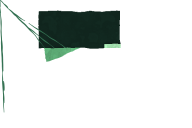
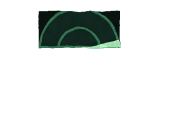
fix(computer): keep the ink radar's sweep inside its monitor
The rings used an arc the pen cannot follow, so they ran as stray lines
across the picture; the wedge dipped under the screen's floor. Redrawn
after the pixel frames, clipped to the screen.

diff --git a/tools/anime-art/subjects/machines.js b/tools/anime-art/subjects/machines.js
@@ -480,12 +480,25 @@ const computerLights = (f) => (a) => {
   a.flat(rr(29.8, 13, 1, .6, .1), f ? '#54ba74' : '#f0c460');
 };
 const computerRadar = (f) => (a) => {
-  const CX = 20, CY = 12, c = (r) => `M${CX - r} ${CY}A${r} ${r} 0 0 1 ${CX + r} ${CY}`;
-  a.flat(band(9.6, 2.8, 30, 12), '#0e2a20');
-  for (const r of [3.4, 6.4, 8.8]) a.line(c(r), { w: 1.4, c: '#2b7a52' });
-  const t = Math.PI + ((f % 8) / 8) * Math.PI;
-  a.flat(poly(CX, CY, CX + Math.cos(t) * 9, CY + Math.sin(t) * 9, CX + Math.cos(t - .4) * 9, CY + Math.sin(t - .4) * 9), '#54ba74');
-  a.flat(band(26, 11, 30, 12), '#a0f0b0');
+  // A half disc on the screen's floor, a beam crossing it right to left with a fading trail, blips lit as it passes; all held to the screen.
+  const SCREEN = band(9.6, 2.8, 30, 12), CX = 19.8, CY = 12, R = 10.2, beam = (Math.PI * ((f % 8) + .5)) / 8;
+  const at = (r, t) => [CX + Math.cos(t) * r, CY - Math.sin(t) * r];
+  const sector = (r0, r1, t0, t1) => {
+    const n = 24, along = (r, from, to) => Array.from({ length: n + 1 }, (_, i) => at(r, from + ((to - from) * i) / n));
+    return poly(along(r1, t0, t1).concat(along(r0, t1, t0)).flat());
+  };
+  const wedge = (t0, t1, c) => { if (t1 > Math.max(t0, 0)) a.flat(sector(0, R, Math.max(t0, 0), t1), c, { clip: SCREEN }); };
+  a.flat(SCREEN, '#08140f');
+  a.flat(sector(0, R, 0, Math.PI), '#0e2a20', { clip: SCREEN });
+  wedge(beam - .9, beam - .45, '#26804a');
+  for (const [r0, r1] of [[R / 2 - .3, R / 2 + .3], [R - .6, R]]) a.flat(sector(r0, r1, 0, Math.PI), '#2b7a52', { clip: SCREEN });
+  a.flat(band(CX - R, 11.5, CX + R, 12), '#2b7a52', { clip: SCREEN });
+  wedge(beam - .45, beam - .18, '#3fbf6e');
+  wedge(beam - .18, beam, '#a0f0b0');
+  for (const [x, y] of [[14.5, 6.5], [25.5, 8.5], [22.5, 4.5]]) {
+    const since = beam - Math.atan2(CY - y, x - CX);
+    if (since >= 0 && since < 1.6) a.flat(ell(x, y, since < .8 ? .8 : .5), '#ffe08a');
+  }
 };
 const computerScreen = (f) => (a) => {
   a.flat(band(9.6, 2.8, 30, 12), '#0c2438');
